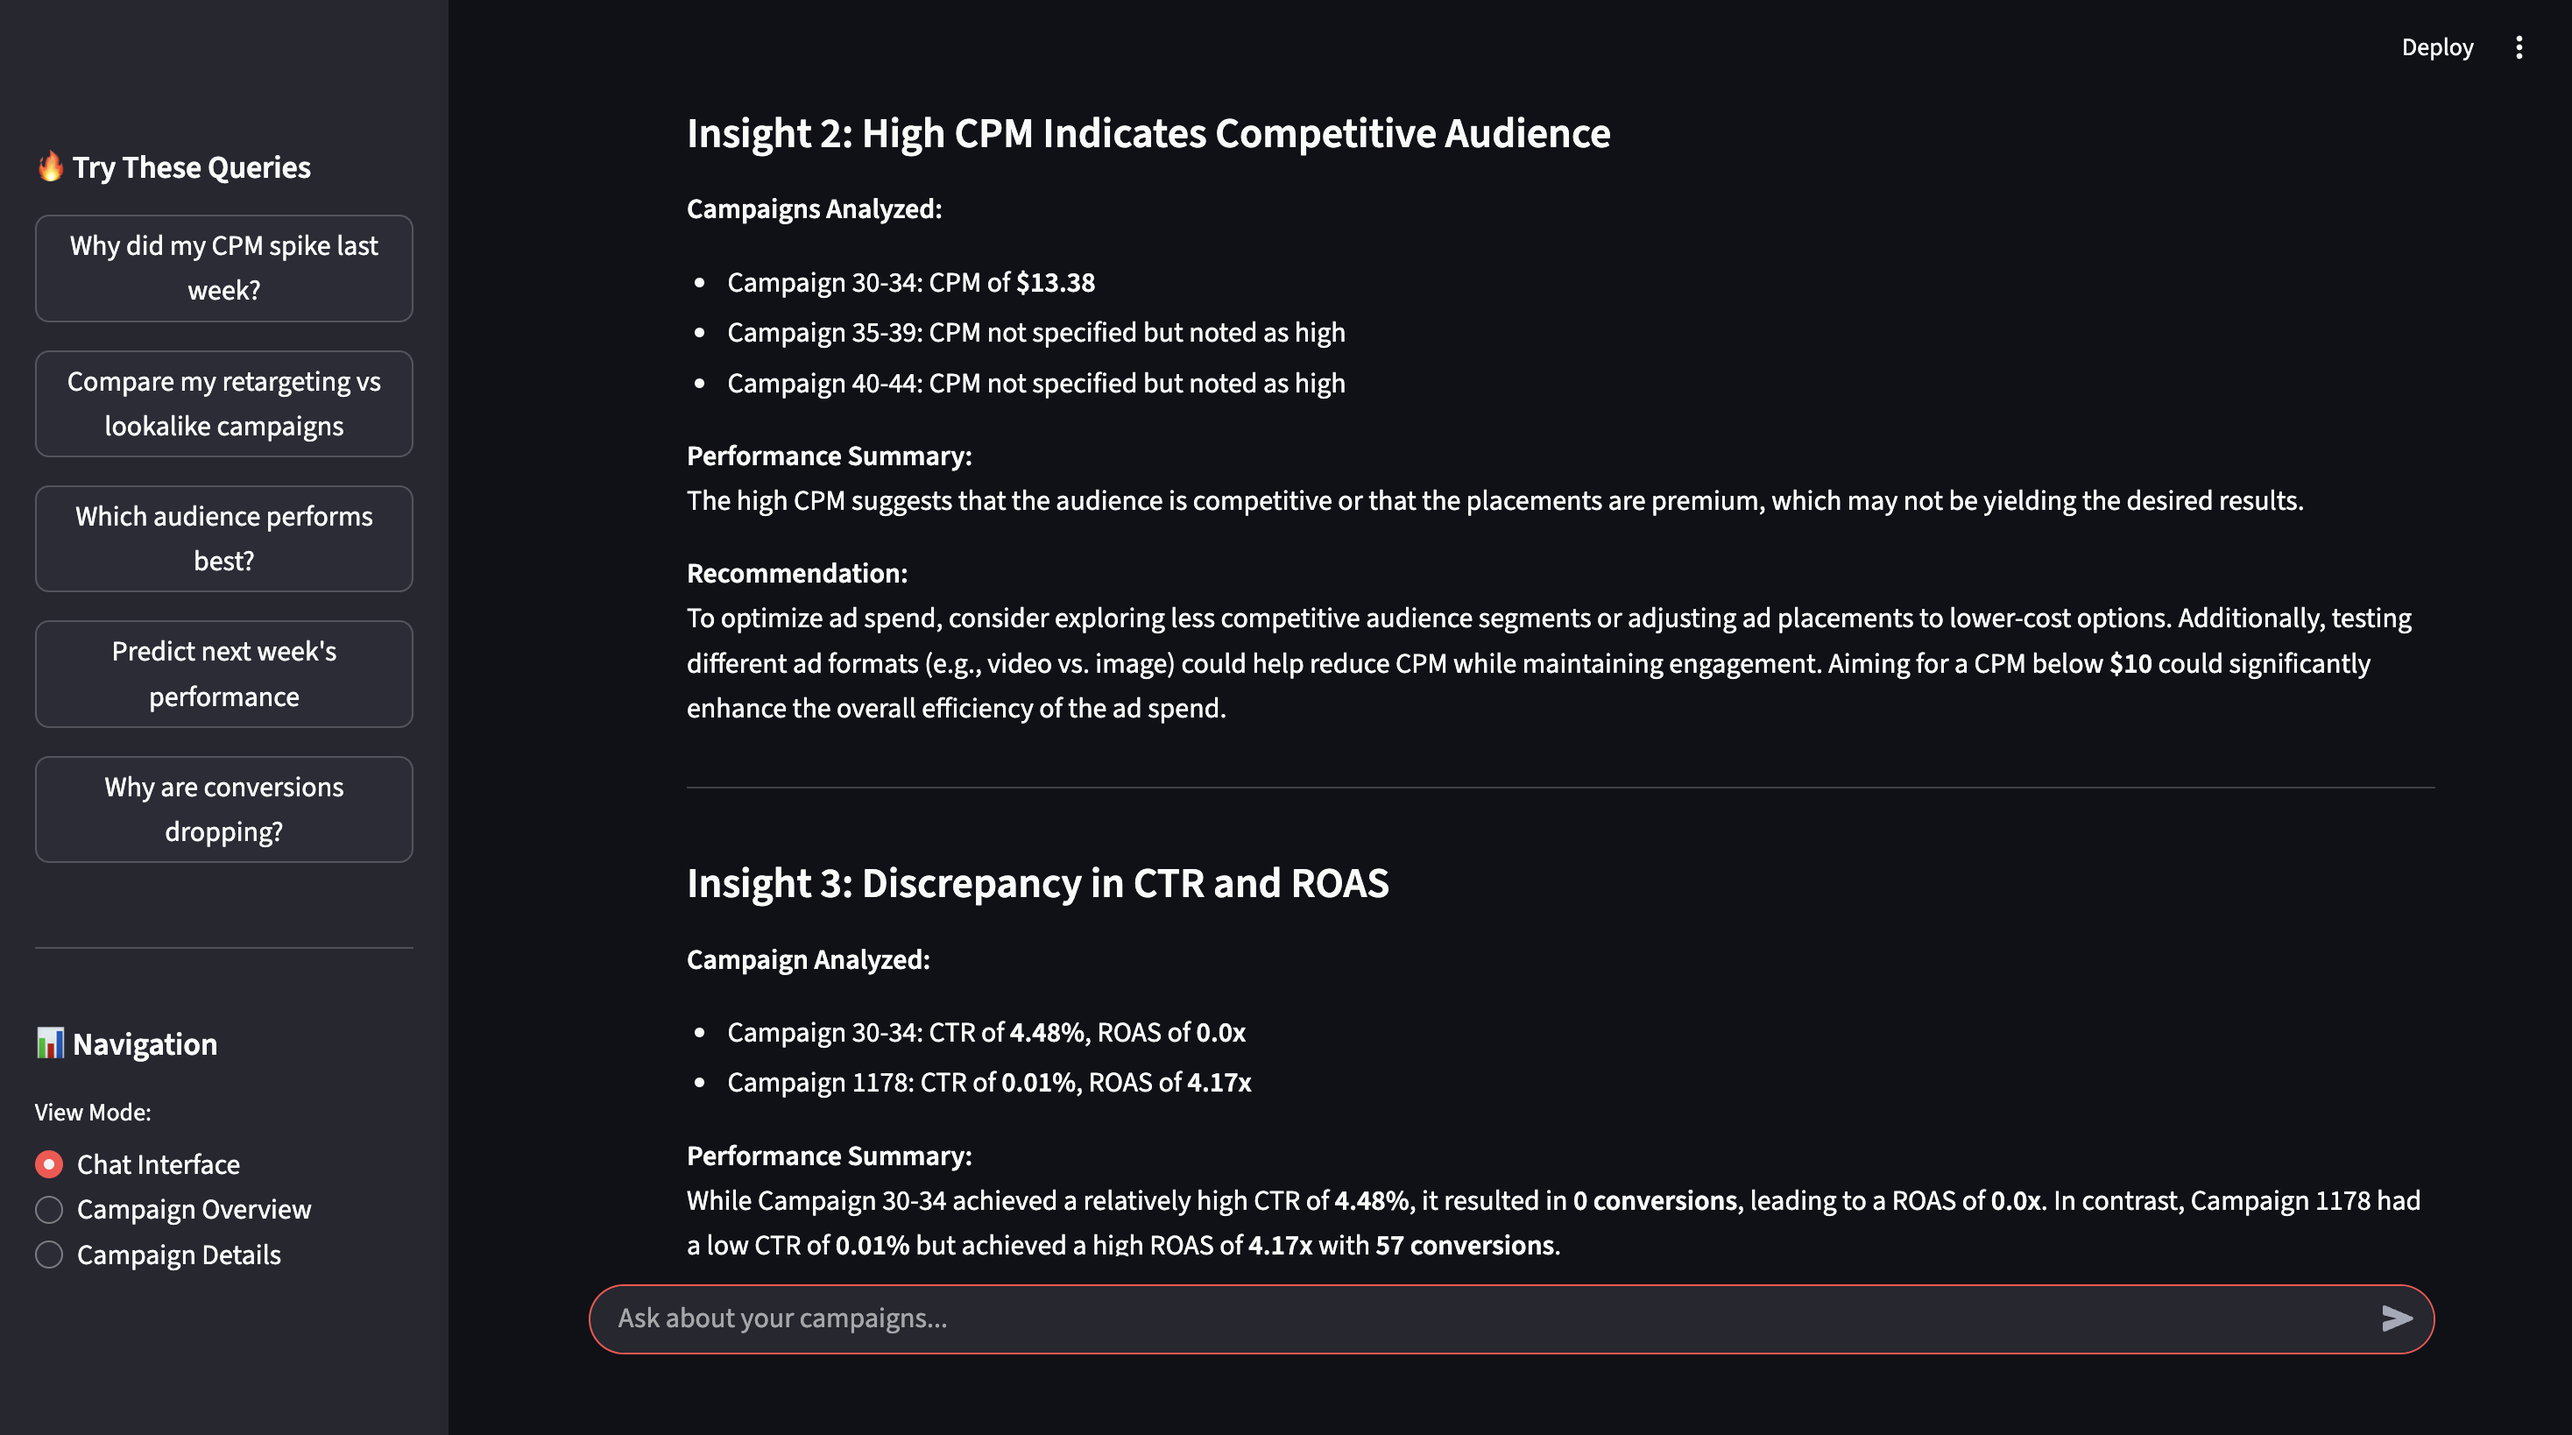
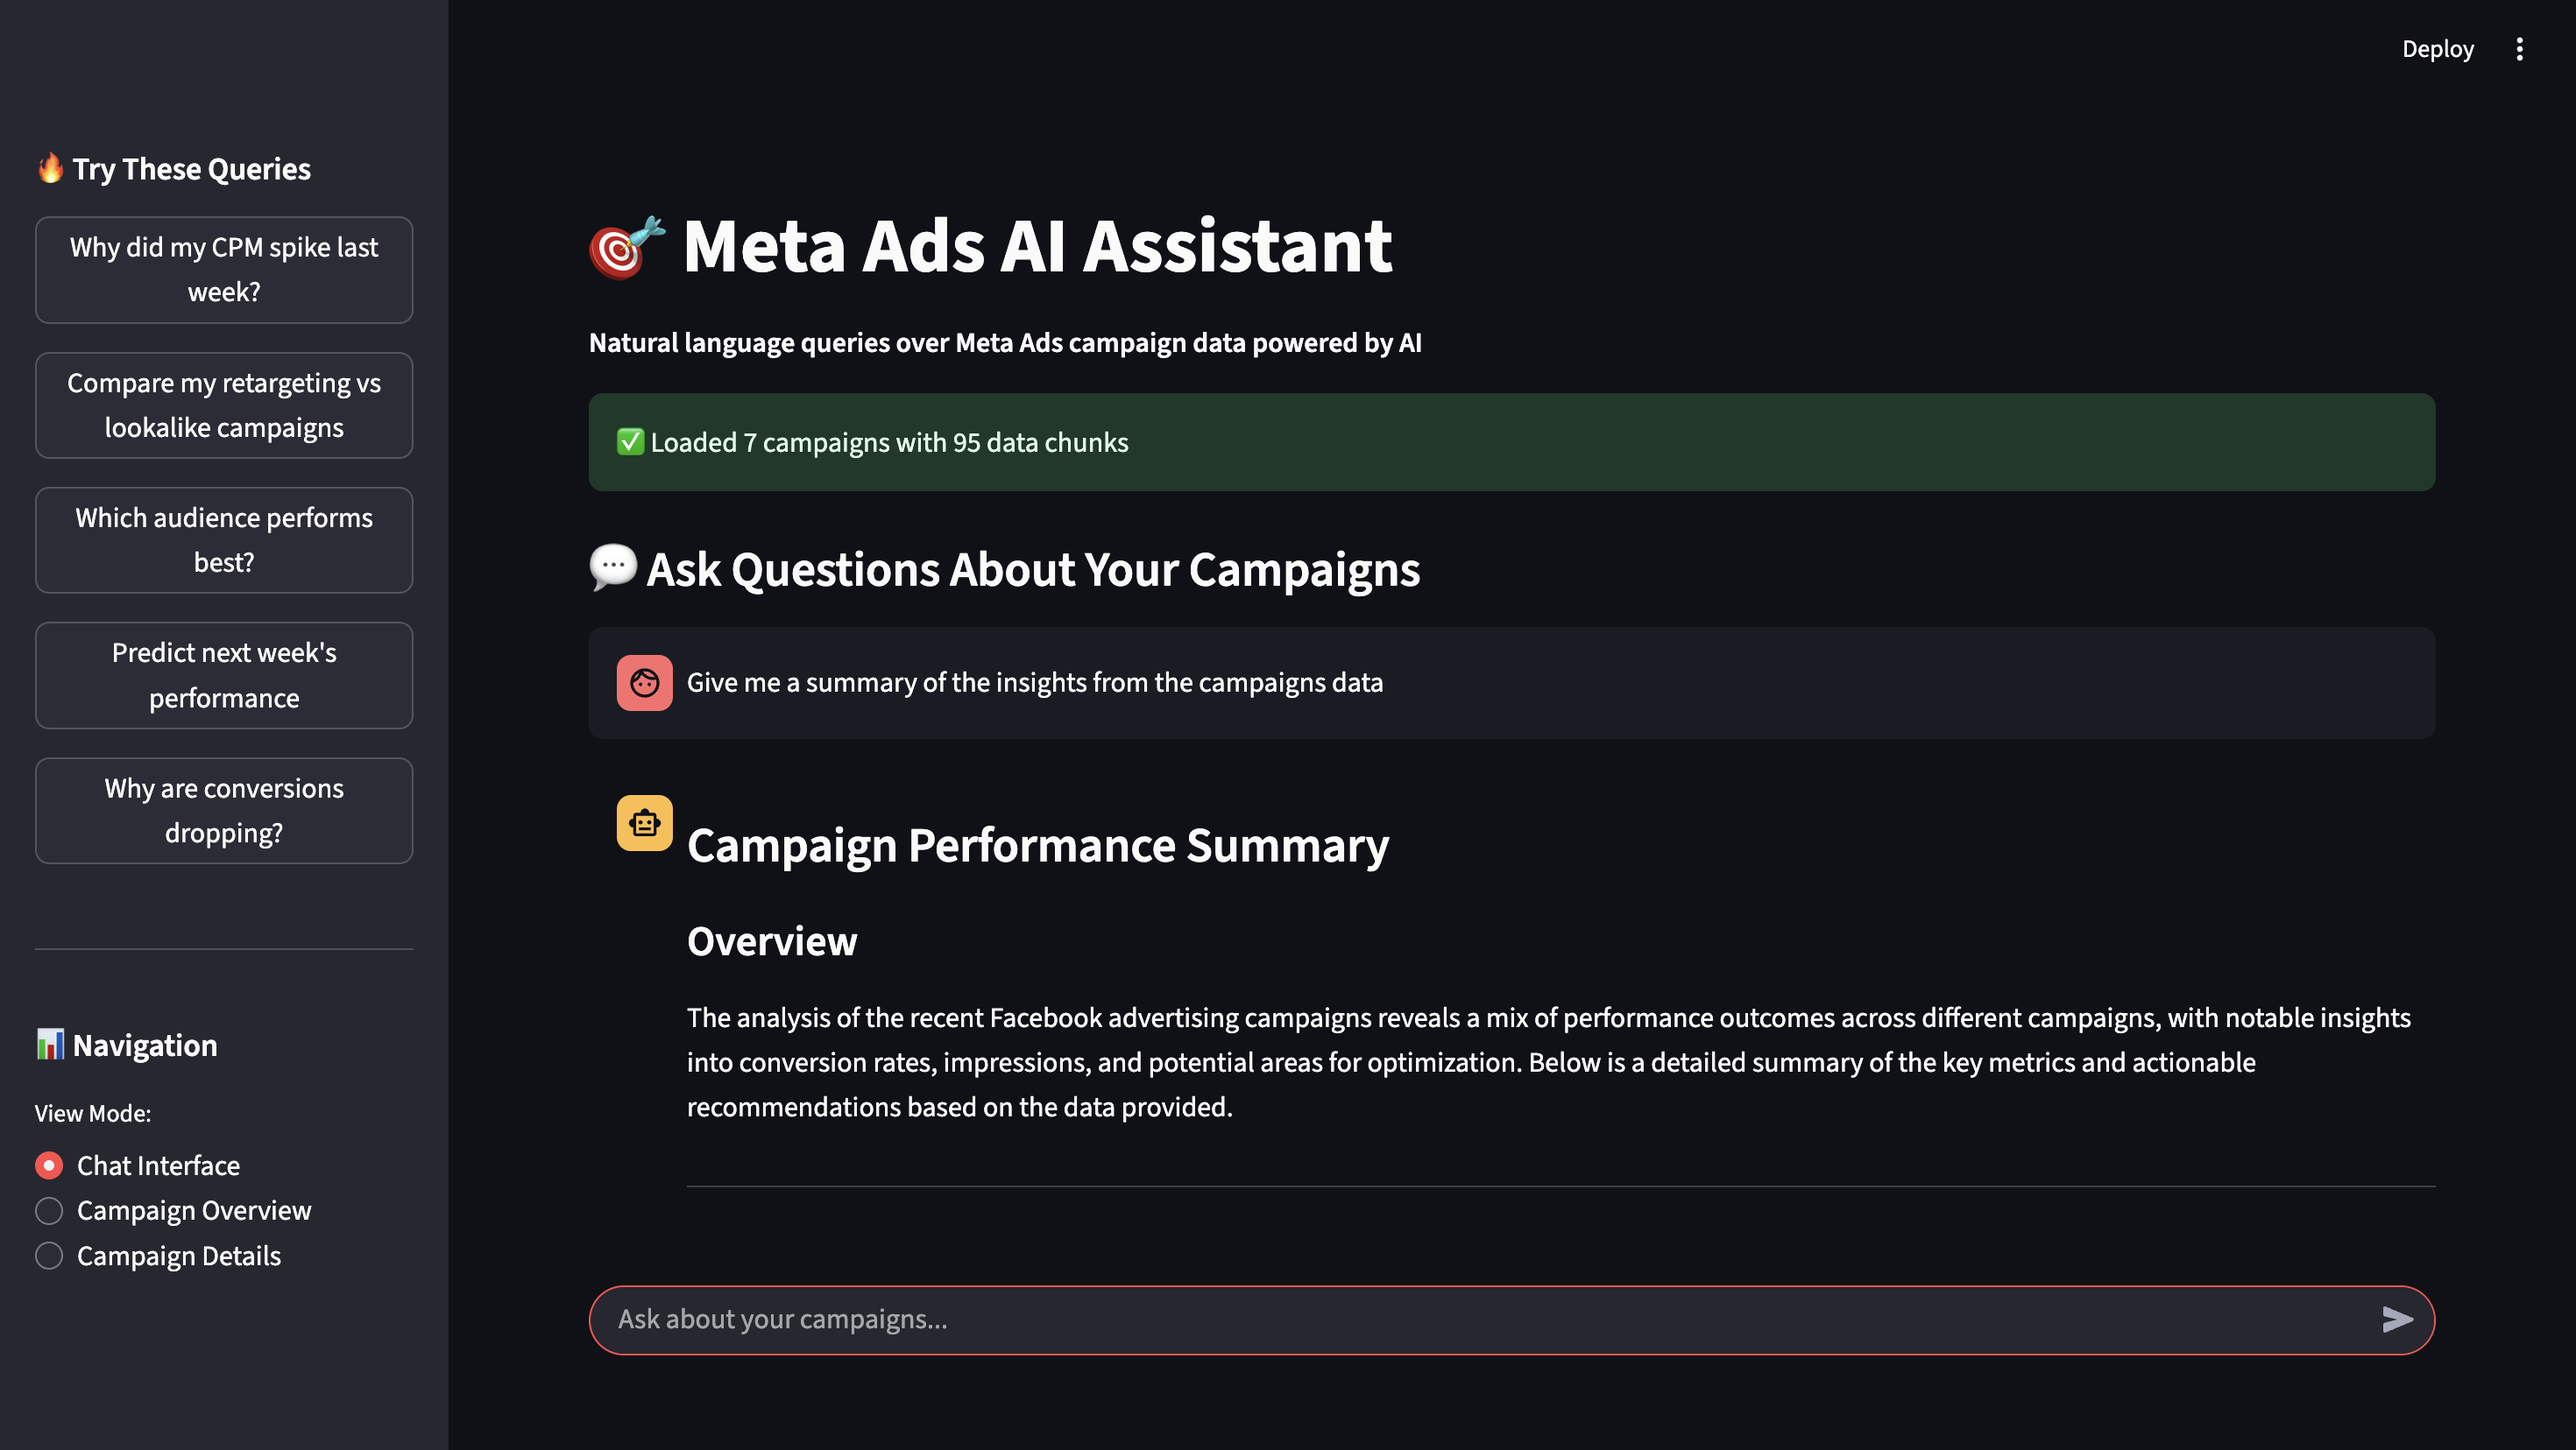
Guide update

diff --git a/app.py b/app.py
@@ -384,7 +384,7 @@ def main():
         layout="wide"
     )
     
-    st.title("🎯 Meta Ads RAG Demo")
+    st.title("🎯 Meta Ads AI Assistant")
     st.markdown("**Natural language queries over Meta Ads campaign data powered by AI**")
     
     # Load data (this will show any loading errors)

diff --git a/docs/quick-demo-guide.md b/docs/quick-demo-guide.md
@@ -115,7 +115,7 @@ def setup_rag_chain():
 
 # 3. Streamlit UI
 def main():
-    st.title("🎯 Meta Ads RAG Demo")
+    st.title("🎯 Meta Ads AI Assistant")
     
     # Sidebar with sample queries
     st.sidebar.markdown("### Try These Queries:")
